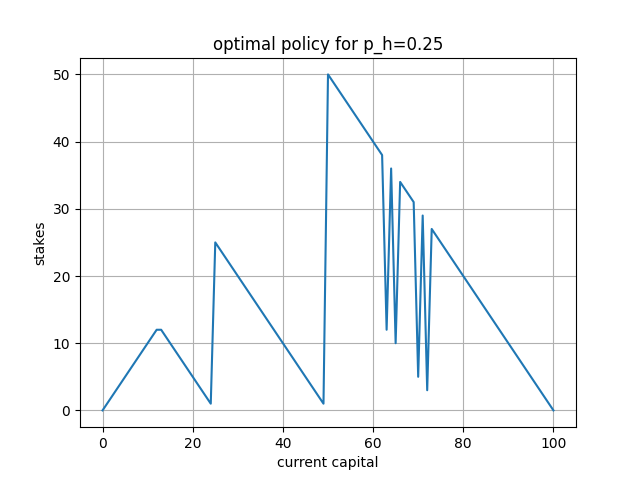
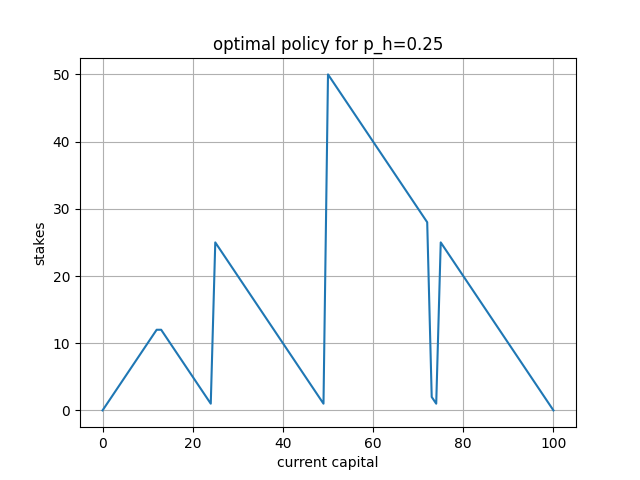
try more winning rates

Changed region(s): [[0.5938, 0.3125, 0.6875, 0.8438]]

diff --git a/hw4/1a.py b/hw4/1a.py
@@ -2,7 +2,7 @@ import numpy as np
 import matplotlib.pyplot as plt
 
 def main():
-    p_h = 0.25
+    p_h = 0.49
     p_t = 1-p_h
     discount = 1
     values = np.random.rand(100+1)
